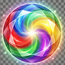
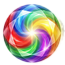
添加邮箱验证码功能

diff --git a/GemMatch/PageLogin.cpp b/GemMatch/PageLogin.cpp
@@ -8,6 +8,10 @@
 #include <QGraphicsScene>
 #include <QGraphicsProxyWidget>
 #include <QDebug>
+#include "Email.h"
+#include <QInputDialog>     
+#include <QRandomGenerator>
+
 
 
 PageLogin::PageLogin(MainWindow* mainWin) : QWidget(mainWin), m_mainWin(mainWin) {
@@ -335,47 +339,115 @@ void PageLogin::onLoginClicked() {
     }
 }
 
+
 void PageLogin::onRegisterClicked() {
-    QString user = m_editUser->text();
-    QString pass = m_editPass->text();
-    QString email = m_editEmail->text();
+    QString user = m_editUser->text().trimmed();
+    QString pass = m_editPass->text().trimmed();
+    QString email = m_editEmail->text().trimmed();
 
-    if (user.isEmpty()&& pass.isEmpty()&& email.isEmpty()) {
-        QMessageBox::warning(this, "错误", "用户名,密码和邮箱不能为空");
-        return;
-    }
-    else if(user.isEmpty() && pass.isEmpty() ) {
-        QMessageBox::warning(this, "错误", "用户名和密码不能为空");
-        return;
-    }
-    else if (user.isEmpty() && email.isEmpty()) {
-        QMessageBox::warning(this, "错误", "用户名和邮箱不能为空");
-        return;
-    }
-    else if (email.isEmpty() && pass.isEmpty()) {
-        QMessageBox::warning(this, "错误", "密码和邮箱不能为空");
-        return;
-    }
-    else if (user.isEmpty() ) {
-        QMessageBox::warning(this, "错误", "用户名不能为空");
-        return;
-    }
-    else if (pass.isEmpty()) {
-        QMessageBox::warning(this, "错误", "密码不能为空");
-        return;
-    }
-    else if (email.isEmpty()) {
-        QMessageBox::warning(this, "错误", "邮箱不能为空");
+    // 1. 基础校验
+    if (user.isEmpty() || pass.isEmpty() || email.isEmpty()) {
+        QMessageBox::warning(this, "错误", "用户名、密码和邮箱不能为空");
         return;
     }
 
-    if (UserManager::instance().registerUser(user, pass, email)) {
-        QMessageBox::information(this, "注册成功", "注册成功，请登录");
+    // 2. 简单的邮箱格式校验（可选）
+    QRegularExpression emailRegex("^[a-zA-Z0-9._%+-]+@[a-zA-Z0-9.-]+\\.[a-zA-Z]{2,}$");
+    if (!emailRegex.match(email).hasMatch()) {
+        QMessageBox::warning(this, "错误", "请输入有效的邮箱地址");
+        return;
     }
-    else {
-        QMessageBox::warning(this, "错误", "该用户名已存在");
+
+    // 3. 生成 6 位随机验证码
+    QString code = QString::number(QRandomGenerator::global()->bounded(100000, 999999));
+
+    // 4. 配置发件人信息 (⚠注意：这里需要填你自己的邮箱和授权码)
+    // 建议使用 163邮箱 或 QQ邮箱，开启 POP3/SMTP 服务获取"授权码"
+    QString senderEmail = "2546696700@qq.com"; // 【请修改这里】你的发送邮箱
+    QString senderPass = "ylujglbywznidjih";     // 【请修改这里】邮箱授权码 (不是登录密码!)
+    QString smtpHost = "smtp.qq.com";          // QQ邮箱是 smtp.qq.com, 163是 smtp.163.com
+
+    // 5. 发送邮件
+    // 提示：发送邮件是异步网络操作，为了简单起见，我们这里直接发送并在下方弹窗等待用户输入
+    // 实际项目中可以加一个"发送中..."的等待动画
+    Smtp* smtp = new Smtp(senderEmail, senderPass, smtpHost);
+    QString subject = "【GenMatch】注册验证码";
+    QString body = QString("亲爱的用户 <b>%1</b>：<br>您的注册验证码是：<h2 style='color:blue'>%2</h2><br>请在界面输入此验证码完成注册。")
+        .arg(user).arg(code);
+
+    smtp->sendMail(email, subject, body);
+
+    // 6. 弹窗让用户输入验证码
+    bool ok;
+    QString text = QInputDialog::getText(this, "邮箱验证",
+        QString("验证码已发送至 %1\n请查收并输入验证码：").arg(email),
+        QLineEdit::Normal,
+        "", &ok);
+
+    // 7. 验证逻辑
+    if (ok && !text.isEmpty()) {
+        if (text.trimmed() == code) {
+            // 验证码正确，执行数据库注册
+            if (UserManager::instance().registerUser(user, pass, email)) {
+                QMessageBox::information(this, "注册成功", "注册成功，请登录");
+                // 自动填入用户名，方便登录
+                m_editUser->setText(user);
+                m_editPass->setText("");
+            }
+            else {
+                QMessageBox::warning(this, "错误", "该用户名已存在");
+            }
+        }
+        else {
+            QMessageBox::warning(this, "验证失败", "验证码错误！");
+        }
     }
+
+    // 清理 smtp 对象（Smtp类需要完善内存管理，这里为了简单直接new了，建议Smtp内部设为自动deleteLater）
+    // 或者将 smtp 设为成员变量管理
 }
+
+//void PageLogin::onRegisterClicked() {
+//    QString user = m_editUser->text();
+//    QString pass = m_editPass->text();
+//    QString email = m_editEmail->text();
+//
+//    if (user.isEmpty()&& pass.isEmpty()&& email.isEmpty()) {
+//        QMessageBox::warning(this, "错误", "用户名,密码和邮箱不能为空");
+//        return;
+//    }
+//    else if(user.isEmpty() && pass.isEmpty() ) {
+//        QMessageBox::warning(this, "错误", "用户名和密码不能为空");
+//        return;
+//    }
+//    else if (user.isEmpty() && email.isEmpty()) {
+//        QMessageBox::warning(this, "错误", "用户名和邮箱不能为空");
+//        return;
+//    }
+//    else if (email.isEmpty() && pass.isEmpty()) {
+//        QMessageBox::warning(this, "错误", "密码和邮箱不能为空");
+//        return;
+//    }
+//    else if (user.isEmpty() ) {
+//        QMessageBox::warning(this, "错误", "用户名不能为空");
+//        return;
+//    }
+//    else if (pass.isEmpty()) {
+//        QMessageBox::warning(this, "错误", "密码不能为空");
+//        return;
+//    }
+//    else if (email.isEmpty()) {
+//        QMessageBox::warning(this, "错误", "邮箱不能为空");
+//        return;
+//    }
+//
+//    if (UserManager::instance().registerUser(user, pass, email)) {
+//        QMessageBox::information(this, "注册成功", "注册成功，请登录");
+//    }
+//    else {
+//        QMessageBox::warning(this, "错误", "该用户名已存在");
+//    }
+//}
 
 
 
